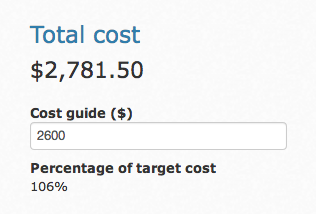
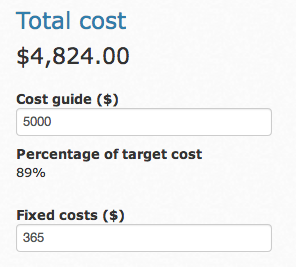
update cost guide stuff

diff --git a/_posts/rosters/2013-05-29-costs.md b/_posts/rosters/2013-05-29-costs.md
@@ -13,11 +13,11 @@ As you make changes to your roster, cost view will update accordingly. Check bac
 
 ### Cost guides
 
-While viewing a roster for a particular department, you're be able to set a cost guide for that portion of the roster. PayAus then determines how close you are to that cost guide, as a percentage.
+While viewing a roster, either in full or for a particular department or tag, you're be able to set a cost guide for the visible portion of the roster. PayAus then determines how close you are to that cost guide, as a percentage.
 
 You can enter any number you like in the cost guide field. For example, you could enter a target cost for the roster (as done in the screenshot below). Alternatively, you could enter a sales target, and advise managers that the roster can't exceed 30% of the target. The important point is to be aware of your target percentage and work with it when designing your roster.
 
-*Note*: If you are a manager of only one department, you will see the cost guide field automatically. If you have access to multiple departments, you will need to choose a department to view.
+Cost guides for an entire roster, and department-specific cost guides, are separate. So you can have a cost guide for each department's roster, and an entirely different cost guide for the complete roster.
 
 You can save the cost guide amount by changing view or clicking the *Save* button.
 
